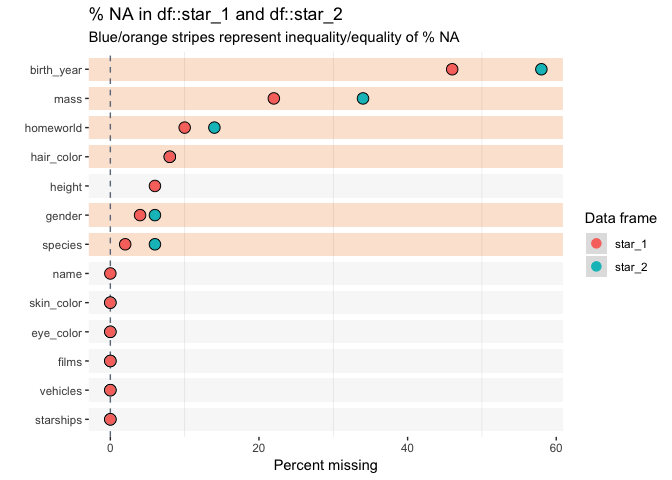
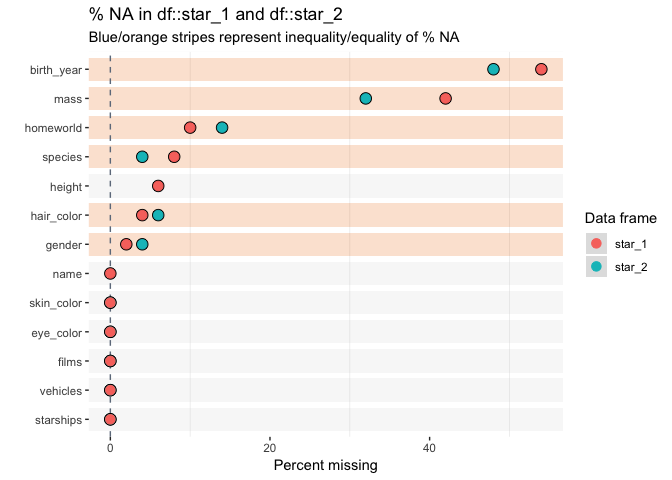
Fixed ordering issue with inspect_imb.  Added alpha argument for sig. level.

diff --git a/README.md b/README.md
@@ -162,19 +162,19 @@ inspect_mem(star_1, star_2, show_plot = TRUE)
     ## # A tibble: 13 x 5
     ##    col_name   size_1    size_2    pcnt_1 pcnt_2
     ##    <chr>      <chr>     <chr>      <dbl>  <dbl>
-    ##  1 films      12.03 Kb  11.07 Kb  36.1    40.2 
-    ##  2 starships  4.23 Kb   3.73 Kb   12.7    13.6 
-    ##  3 name       3.55 Kb   <NA>      10.7    NA   
-    ##  4 vehicles   3.4 Kb    3.31 Kb   10.2    12.0 
-    ##  5 homeworld  2.41 Kb   2.27 Kb    7.24    8.23
-    ##  6 skin_color 1.95 Kb   1.96 Kb    5.83    7.12
-    ##  7 species    1.94 Kb   1.77 Kb    5.81    6.44
-    ##  8 eye_color  1.05 Kb   1.05 Kb    3.14    3.80
-    ##  9 hair_color 1.01 Kb   840 bytes  3.02    2.98
-    ## 10 gender     680 bytes 680 bytes  1.99    2.41
-    ## 11 mass       448 bytes 448 bytes  1.31    1.59
-    ## 12 birth_year 448 bytes 448 bytes  1.31    1.59
-    ## 13 height     248 bytes <NA>       0.726  NA
+    ##  1 films      10.59 Kb  10.99 Kb  34.4    40.1 
+    ##  2 starships  4.25 Kb   3.86 Kb   13.8    14.1 
+    ##  3 name       3.57 Kb   <NA>      11.6    NA   
+    ##  4 vehicles   3.32 Kb   3.27 Kb   10.8    11.9 
+    ##  5 homeworld  2.08 Kb   2.16 Kb    6.75    7.89
+    ##  6 species    1.59 Kb   1.72 Kb    5.18    6.27
+    ##  7 skin_color 1.56 Kb   1.72 Kb    5.08    6.27
+    ##  8 eye_color  1.1 Kb    1.11 Kb    3.58    4.04
+    ##  9 hair_color 1.05 Kb   1.06 Kb    3.43    3.87
+    ## 10 gender     560 bytes 680 bytes  1.78    2.42
+    ## 11 mass       448 bytes 448 bytes  1.42    1.59
+    ## 12 birth_year 448 bytes 448 bytes  1.42    1.59
+    ## 13 height     248 bytes <NA>       0.787  NA
 
 #### Missing values
 
@@ -226,13 +226,13 @@ inspect_na(star_1, star_2, show_plot = TRUE)
     ## # A tibble: 13 x 6
     ##    col_name   cnt_1 pcnt_1 cnt_2 pcnt_2 p_value
     ##    <chr>      <int>  <dbl> <int>  <dbl>   <dbl>
-    ##  1 birth_year    23     46    29     58   0.317
-    ##  2 mass          11     22    17     34   0.265
+    ##  1 birth_year    27     54    24     48   0.689
+    ##  2 mass          21     42    16     32   0.407
     ##  3 homeworld      5     10     7     14   0.758
-    ##  4 hair_color     4      8     4      8   1    
+    ##  4 species        4      8     2      4   0.674
     ##  5 height         3      6    NA     NA  NA    
-    ##  6 gender         2      4     3      6   1.000
-    ##  7 species        1      2     3      6   0.610
+    ##  6 hair_color     2      4     3      6   1.000
+    ##  7 gender         1      2     2      4   1    
     ##  8 name           0      0    NA     NA  NA    
     ##  9 skin_color     0      0     0      0  NA    
     ## 10 eye_color      0      0     0      0  NA    
@@ -302,11 +302,11 @@ inspect_cor(star_1, star_2, show_plot = TRUE)
 ![](man/figures/README-unnamed-chunk-13-1.png)<!-- -->
 
     ## # A tibble: 3 x 5
-    ##   col_1      col_2  corr_1 corr_2   p_value
-    ##   <chr>      <chr>   <dbl>  <dbl>     <dbl>
-    ## 1 birth_year mass    0.473  0.946  6.56e-10
-    ## 2 birth_year height -0.388 NA     NA       
-    ## 3 mass       height  0.128 NA     NA
+    ##   col_1      col_2  corr_1 corr_2 p_value
+    ##   <chr>      <chr>   <dbl>  <dbl>   <dbl>
+    ## 1 mass       height  0.779 NA     NA     
+    ## 2 birth_year height  0.289 NA     NA     
+    ## 3 birth_year mass    0.145  0.469  0.0783
 
 Notes:
 
@@ -362,15 +362,15 @@ inspect_imb(star_1, star_2, show_plot = TRUE)
 ![](man/figures/README-unnamed-chunk-15-1.png)<!-- -->
 
     ## # A tibble: 7 x 7
-    ##   col_name   value      pcnt_1 cnt_1 pcnt_2 cnt_2 p_value
-    ##   <chr>      <chr>       <dbl> <int>  <dbl> <int>   <dbl>
-    ## 1 gender     male          72     10     66    11   1.000
-    ## 2 hair_color none          42      1     46     1   1    
-    ## 3 species    Human         42      1     38     1   1    
-    ## 4 eye_color  brown         28.     5     26     6   1.000
-    ## 5 skin_color fair          16      1     16     1   1    
-    ## 6 homeworld  Naboo         10      2     NA    NA  NA    
-    ## 7 name       Adi Gallia     2      1     NA    NA  NA
+    ##   col_name   value            pcnt_1 cnt_1 pcnt_2 cnt_2 p_value
+    ##   <chr>      <chr>             <dbl> <int>  <dbl> <int>   <dbl>
+    ## 1 gender     male                76     11     64    13   0.815
+    ## 2 species    Human               50      1     42     1   1    
+    ## 3 hair_color none                34      1     40     1   1    
+    ## 4 eye_color  brown               28.     5     24     6   1.000
+    ## 5 skin_color fair                26      1     18     1   1    
+    ## 6 homeworld  Naboo               18      2     NA    NA  NA    
+    ## 7 name       Anakin Skywalker     2      1     NA    NA  NA
 
   - Smaller `p_value` indicates stronger evidence against the null
     hypothesis that the true frequency of the most common values is the
